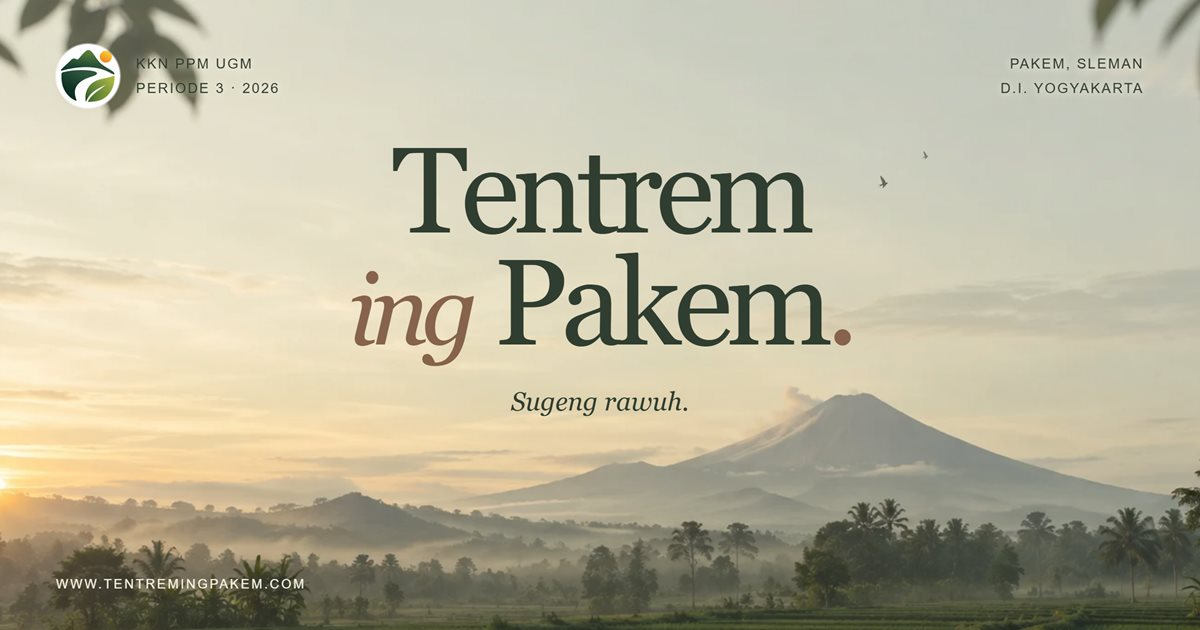
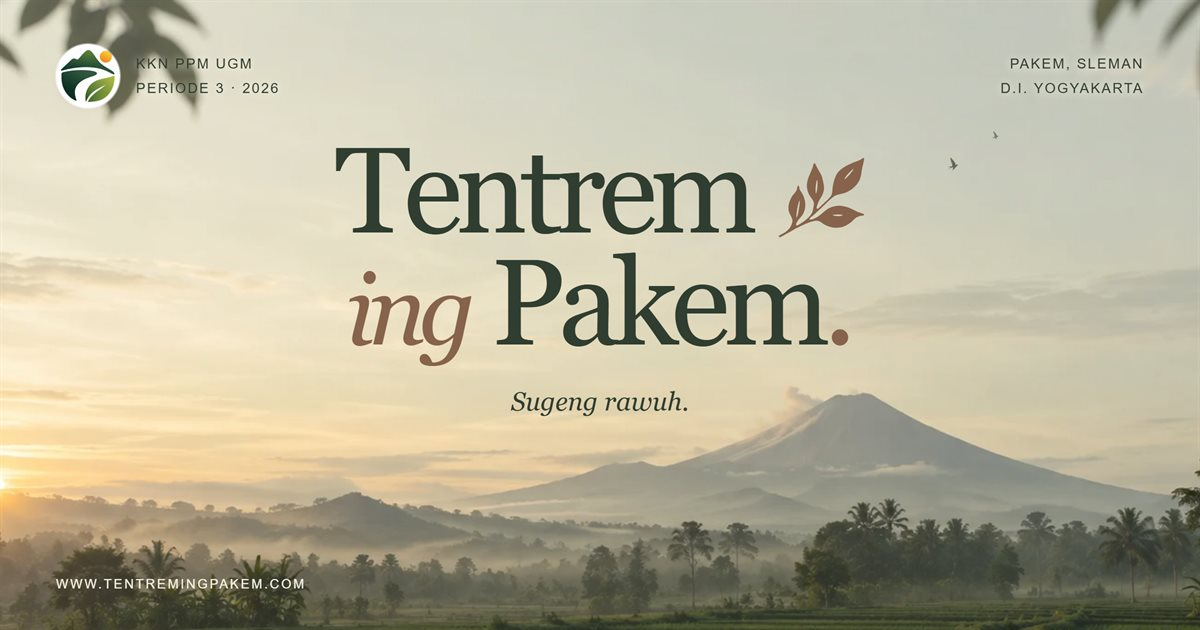
Add the official sprig to the title and a countdown to deployment day
The title now matches the team's official wordmark: a brown sprig, traced
from the logo as an inline SVG, sits beside "Tentrem" at the logo's own
size and position in em. It grows last in the opening animation, stem
first and then four leaves, and sways gently afterwards.

A countdown card under the greeting ticks toward 19 October 2026 in
Western Indonesia Time, with a journey line from 12 September. It turns
into a deployment-day and an arrived message once the date passes. Short
laptop screens tighten the spacing so both buttons stay above the fold.

The link preview image is re-rendered with the new title.

Changed region(s): [[0.2775, 0.2111, 0.74, 0.3921], [0.4317, 0.4222, 0.7092, 0.5429], [0.2775, 0.4524, 0.4008, 0.573]]

diff --git a/index.html b/index.html
@@ -13,17 +13,17 @@
   <meta property="og:url" content="https://www.tentremingpakem.com/">
   <meta property="og:site_name" content="Tentrem ing Pakem">
   <meta property="og:locale" content="id_ID">
-  <meta property="og:image" content="https://www.tentremingpakem.com/assets/og-image.jpg?v=20260929">
+  <meta property="og:image" content="https://www.tentremingpakem.com/assets/og-image.jpg?v=20261006">
   <meta property="og:image:type" content="image/jpeg">
   <meta property="og:image:width" content="1200">
   <meta property="og:image:height" content="630">
-  <meta property="og:image:alt" content="Tulisan Tentrem ing Pakem di atas ilustrasi lanskap fajar dengan gunung dan pepohonan.">
+  <meta property="og:image:alt" content="Tulisan Tentrem ing Pakem dengan setangkai daun cokelat, di atas ilustrasi lanskap fajar dengan gunung dan pepohonan.">
   <meta name="twitter:card" content="summary_large_image">
   <link rel="icon" type="image/png" sizes="64x64" href="favicon-round.png?v=20260919-gradient">
   <link rel="icon" type="image/svg+xml" href="favicon-round.svg?v=20260919-gradient">
   <link rel="apple-touch-icon" sizes="180x180" href="apple-touch-icon.png?v=20260919-gradient">
   <link rel="preload" as="image" href="assets/pakem.webp">
-  <link rel="stylesheet" href="style.css?v=20260929-journal">
+  <link rel="stylesheet" href="style.css?v=20261006-countdown">
 </head>
 <body>
   <div class="scene" aria-hidden="true"><img src="assets/pakem.webp" alt="" width="1672" height="941" fetchpriority="high"><div class="veil"></div></div>
@@ -39,8 +39,14 @@
     </header>
     <main>
       <p class="eyebrow"><span></span> SEGERA HADIR <span></span></p>
-      <h1><span class="title-word">Tentrem</span><br><span class="title-line"><i class="title-word">ing</i> <span class="title-word">Pakem</span><span class="period">.</span></span></h1>
+      <h1><span class="title-first"><span class="title-word">Tentrem</span><svg class="title-sprig" viewBox="0 0 264 244" fill="currentColor" aria-hidden="true" focusable="false"><defs><path id="sprig-shape" d="M260.8 2C262.3 6.5 256 27.4 254.8 34C253.3 42.6 251.5 57.7 248.4 65.3C241.8 81.6 227.5 96 211.6 103.3C208.1 105 204.3 106.7 200.6 108C190.9 111.2 180 111.8 171 116.9C162.9 121.5 138.8 145.4 131.1 153.2C127.6 156.7 123.6 159.8 119.9 163.1C114.7 167.7 109.7 172.6 104.4 177.3C101.3 180 95.8 183 95.8 187.4C99.9 189.8 105.7 186.4 109.8 184.8C125.6 178.4 133.9 167.7 147 158.2C152.9 154 160 150.9 166.8 148.9C192.6 141.1 215.7 151.1 238.1 163.2C242.8 165.7 258.5 170.1 260.4 171.8C261.8 173 260.5 172 261.3 173.5C259.4 176.7 255 175.9 251.5 176.7C246.2 177.9 240.4 180 235.9 183C229.9 187 226.1 192.8 220.4 197.1C205.3 208.6 187.4 215.3 168.3 212.4C158.9 211 149.1 208 140.9 203.3C129.1 196.6 126.7 190 110 192.3C94.2 194.6 63.1 210.2 48.5 218.1C42 221.6 35.9 225.7 29.4 229.1C25.6 231 8.9 240.9 6.6 241.4C4.5 241.8 3.6 241.2 2.2 239.9C2.3 238.4 1.6 239.4 2.3 238C3.7 235.5 16.3 229.9 19.5 227.9C31.2 220.9 40.6 209.7 43.3 196C46 181.6 34 174.7 31.9 158.5C30.3 145.8 35.3 129.2 42.1 118.5C45.3 113.4 49.8 109.3 53.1 104.3C54.6 102.1 56.1 99.8 57 97.3C58.6 93.2 57.4 87 61.9 85.1C65.9 87.4 63.1 93.1 67.1 99.4C70.9 105.3 74.8 111.1 77.4 117.6C84.3 134.6 85 154.3 76.1 170.8C70.8 180.5 61.9 186.7 57.7 195.5C56 199.1 52.7 202.8 56 206.2C61.4 205.5 70.2 198.9 75.1 195.8C85.2 189.4 99.4 177.2 103.9 166C105.5 162 106 157.6 106.9 153.4C108.1 148.1 109.6 141.9 108.4 136.6C106.6 128.6 100.1 121.9 95.9 115.1C91.3 107.7 88.7 99.2 87.8 90.6C86.1 74.9 92.6 58.5 99.1 44.5C101.7 38.8 104.2 33 106 26.9C106.9 23.3 106.7 19.2 110.1 17.3C111.1 17.6 111.1 17.2 112 17.9C112.2 18.1 121.1 35.2 122.3 37.3C125.7 43.3 129.6 49.3 132.3 55.7C134 59.7 134.7 64 135.7 68.2C140.2 85.9 142 97.8 133.7 114.7C127.5 127.3 124.6 127.4 119.6 143.3C118.4 147 115.6 152 118 155.5C119.2 155.5 119.7 155.8 120.8 155C124.2 152.8 134.1 143 137.9 139.6C144.6 133.5 158.8 121.6 162.3 113.4C164.4 108.4 165 96.7 165.7 90.8C167.2 78.9 170.6 66.2 175.4 55.2C184.3 35 209.4 23.3 228.5 15.1C235.3 12.1 243.4 10.3 249.8 6.7C253.3 4.7 256.7 .7 260.8 2ZM228 35C221 39.8 203.6 57.7 201.5 65.5C201.7 65.5 201.9 66 202.1 65.9C203.4 65.8 208.5 60.5 209.7 59.4C215.1 54.1 220.3 48.2 224.6 42C225.6 40.5 228.3 37.9 228.4 36.1C228.4 35.7 228 35.4 228 35ZM115.2 109.4C119.1 103.4 121.2 75.2 118.8 68.3C118.6 68.5 118.2 68.2 118 68.4C117.1 69.2 116.3 75.6 116 77.1C114.5 83.8 112.5 103.7 115.2 109.4ZM65 129.9C60.4 140.6 54.7 171.5 56 182.9C60.7 177.5 64 151.4 65 143.3C65.5 139.2 66.7 133.8 65 129.9ZM166.3 175.3C171.7 177.8 192.7 178.9 196.8 174.8C189.8 172.1 181.3 172.5 174 173.2C172 173.4 167.7 173.2 166.2 174.8C166.1 174.9 166.4 175.2 166.3 175.3Z"/><clipPath id="sprig-stem-area"><path d="M0 0V244H264V0ZM12 72L74 72L78 102L92 132L92 162L88 172L80 182L70 192L65 197L59.5 202L57 204.5L12 204.5ZM74 2L150 2L151 97L148 114L140 127L128 142L120.5 153.5L98 153.5L92 142L92 132L78 102L74 72ZM152 -8L277 -8L277 134L168 134L167.9 129.5L152.3 115.5L153.3 92ZM101 184L107 180.5L110 178.5L122 170L132 162L142 152.5L152 144L162 137L168 134L277 134L277 250L101 250Z"/></clipPath><clipPath id="sprig-leaf-1-area"><path d="M12 72L74 72L78 102L92 132L92 162L88 172L80 182L70 192L65 197L59.5 202L57 206L12 206Z"/></clipPath><clipPath id="sprig-leaf-2-area"><path d="M74 2L150 2L151 97L148 114L140 127L128 142L120.5 155L98 155L92 142L92 132L78 102L74 72Z"/></clipPath><clipPath id="sprig-leaf-3-area"><path d="M152 -8L277 -8L277 134L168 134L166.9 130.6L151.3 116.6L153.3 92Z"/></clipPath><clipPath id="sprig-leaf-4-area"><path d="M99.5 184L107 180.5L110 178.5L122 170L132 162L142 152.5L152 144L162 137L168 134L277 134L277 250L99.5 250Z"/></clipPath></defs><use class="sprig-stem" href="#sprig-shape" clip-path="url(#sprig-stem-area)"/><use class="sprig-leaf sprig-leaf-1" href="#sprig-shape" clip-path="url(#sprig-leaf-1-area)"/><use class="sprig-leaf sprig-leaf-4" href="#sprig-shape" clip-path="url(#sprig-leaf-4-area)"/><use class="sprig-leaf sprig-leaf-2" href="#sprig-shape" clip-path="url(#sprig-leaf-2-area)"/><use class="sprig-leaf sprig-leaf-3" href="#sprig-shape" clip-path="url(#sprig-leaf-3-area)"/></svg></span><br><span class="title-line"><i class="title-word">ing</i> <span class="title-word">Pakem</span><span class="period">.</span></span></h1>
       <p class="description"><i>Sugeng rawuh.</i></p>
+      <div class="countdown" data-start="2026-09-12T00:00:00+07:00" data-target="2026-10-19T00:00:00+07:00">
+        <p class="countdown-title"><span class="countdown-live" aria-hidden="true"></span><span class="countdown-heading" data-today="Hari penerjunan" data-arrived="Sudah di Pakem">Menuju penerjunan</span><span class="countdown-date"> · <time datetime="2026-10-19">Senin, 19 Oktober 2026</time></span></p>
+        <p class="countdown-units" role="timer" aria-atomic="true"><span class="countdown-unit"><span class="countdown-value"><span>--</span></span> <span class="countdown-label">hari</span></span> <span class="countdown-unit"><span class="countdown-value"><span>--</span></span> <span class="countdown-label">jam</span></span> <span class="countdown-unit"><span class="countdown-value"><span>--</span></span> <span class="countdown-label">menit</span></span> <span class="countdown-unit"><span class="countdown-value"><span>--</span></span> <span class="countdown-label">detik</span></span></p>
+        <p class="countdown-message" data-today="Hari ini, kami tiba di Pakem." data-arrived="Sejak 19 Oktober, cerita kami berlanjut di Pakem." hidden></p>
+        <div class="countdown-journey" aria-hidden="true"><span>12 Sep</span><span class="countdown-track"><span class="countdown-fill"></span><img class="countdown-bird" src="assets/bird.png" alt="" width="130" height="150"></span><span>19 Okt</span></div>
+      </div>
       <div class="actions">
         <button class="discover" type="button" aria-haspopup="dialog" aria-controls="pakem-story">
           <span class="button-flower" aria-hidden="true"><svg class="icon icon-flower" viewBox="0 0 24 24" fill="none" stroke="currentColor" stroke-width="1.6" stroke-linecap="round" stroke-linejoin="round" aria-hidden="true" focusable="false"><path d="M12 3v18M3 12h18M5.64 5.64l12.72 12.72M5.64 18.36L18.36 5.64"/></svg></span>
@@ -161,6 +167,6 @@
     </div>
   </dialog>
   <template id="spark-icon"><svg class="icon icon-spark" viewBox="0 0 24 24" fill="currentColor" aria-hidden="true" focusable="false"><path d="M12 1c1.4 7.2 3.8 9.6 11 11-7.2 1.4-9.6 3.8-11 11C10.6 15.8 8.2 13.4 1 12 8.2 10.6 10.6 8.2 12 1Z"/></svg></template>
-  <script src="script.js?v=20260929-journal" defer></script>
+  <script src="script.js?v=20261006-countdown" defer></script>
 </body>
 </html>

diff --git a/style.css b/style.css
@@ -131,7 +131,7 @@ body.motion-paused .journal-next-page img{animation-play-state:paused}
 body.motion-paused .photo-dialog *{animation:none}
 @media(max-width:760px){.photo-full{border-width:5px;border-bottom-width:12px;max-height:calc(100svh - 190px)}.photo-dialog .close-dialog{top:12px;right:12px}}
 
-/* Every visit opens like morning in Pakem: the mist lifts, the words arrive, and the dot lands last. */
+/* Every visit opens like morning in Pakem: the mist lifts, the words arrive, the dot lands, and the sprig grows last. */
 .scene::after{content:"";position:absolute;inset:0;background:#eeeade;opacity:0;pointer-events:none;animation:mist-lift 1.6s .05s cubic-bezier(.4,0,.2,1) backwards}
 header{animation:intro-down .9s .15s var(--ease) backwards}
 .eyebrow{animation:eyebrow-in 1.1s .3s var(--ease) backwards}
@@ -155,3 +155,42 @@ footer,.motion-toggle{animation:intro-fade 1s 1.5s ease-out backwards}
 @keyframes word-in{from{opacity:0;transform:translateY(.3em);filter:blur(12px)}}
 @keyframes ing-in{from{opacity:0;transform:translateX(-.3em) rotate(-8deg);filter:blur(12px)}}
 @keyframes dot-land{0%{opacity:0;transform:translateY(-1.1em) scale(.5)}55%{opacity:1;transform:translateY(.06em) scale(1.2,.85)}80%{transform:translateY(-.04em) scale(.95,1.05)}}
+
+/* The official wordmark carries a brown sprig beside Tentrem. Its size and place are the logo's own, in em. */
+h1 .title-line{margin-right:.043em}
+.title-sprig{display:inline-block;width:.714em;height:.66em;margin-left:.223em;vertical-align:-.0435em;overflow:visible;color:var(--accent);transform-origin:1.9% 97.5%;animation:sprig-sway 7s 3.1s ease-in-out infinite}
+.sprig-stem{transform-origin:5px 238px;animation:sprig-grow .75s 1.65s var(--ease) backwards}
+.sprig-leaf{animation:leaf-unfurl .8s cubic-bezier(.34,1.56,.64,1) backwards}
+.sprig-leaf-1{transform-origin:47.4px 204.5px;--fold:50deg;animation-delay:1.85s}
+.sprig-leaf-4{transform-origin:101px 191.4px;--fold:-45deg;animation-delay:1.98s}
+.sprig-leaf-2{transform-origin:111.4px 153.5px;--fold:40deg;animation-delay:2.08s}
+.sprig-leaf-3{transform-origin:159.6px 122px;--fold:-20deg;animation-delay:2.2s}
+@keyframes sprig-grow{from{transform:scale(0)}}
+@keyframes leaf-unfurl{from{transform:rotate(var(--fold)) scale(0)}}
+@keyframes sprig-sway{50%{transform:rotate(-2.5deg)}}
+body.motion-paused .title-sprig{animation-play-state:paused}
+
+/* A live countdown to deployment day, with the journey since the first meeting drawn underneath. */
+.countdown{width:min(100%,392px);margin:0 auto 24px;padding:14px 20px 10px;border:1px solid #fffaf1bd;border-radius:20px;background:#f6f1e4e6;-webkit-backdrop-filter:blur(10px);backdrop-filter:blur(10px);box-shadow:0 1px 0 #d4d8c5,0 10px 30px #14291216;animation:intro-up .9s 1.32s var(--ease) backwards}
+.countdown-title{margin:0 0 10px;font-size:9px;line-height:1.4;letter-spacing:1.8px;text-transform:uppercase;color:#6c775d}
+.countdown-live{position:relative;display:inline-block;width:6px;height:6px;margin:0 9px 1px 0;vertical-align:middle;border-radius:50%;background:var(--accent)}
+.countdown-live::after{content:"";position:absolute;inset:-4px;border:1px solid var(--accent);border-radius:50%;opacity:0;animation:live-ring 2.4s ease-out infinite}
+.countdown-units{display:grid;grid-template-columns:repeat(4,1fr);margin:0}
+.countdown-unit{display:flex;flex-direction:column;align-items:center;gap:2px}
+.countdown-unit+.countdown-unit{border-left:1px solid var(--line)}
+.countdown-value{display:block;height:1.15em;overflow:hidden;font:400 34px/1.15 Georgia,'Times New Roman',serif;letter-spacing:-.5px;color:var(--ink)}
+.countdown-value>span{display:block}
+.countdown-label{font-size:8px;letter-spacing:1.6px;text-transform:uppercase;color:#8b937d}
+.countdown-message{margin:0 0 2px;font:italic 20px/1.35 Georgia,'Times New Roman',serif;color:var(--ink)}
+.countdown-journey{display:flex;align-items:center;gap:10px;margin-top:9px;font-size:8px;letter-spacing:1.4px;text-transform:uppercase;color:#8b937d;white-space:nowrap}
+.countdown-track{position:relative;flex:1;height:20px}
+.countdown-track::before{content:"";position:absolute;left:0;right:0;top:50%;border-top:1px dashed #bcc5ab}
+.countdown-track::after{content:"";position:absolute;right:-4px;top:50%;width:7px;height:7px;margin-top:-4px;border:1.5px solid var(--accent);border-radius:50%;background:var(--paper)}
+.countdown-fill{position:absolute;left:0;top:50%;width:var(--progress,0%);height:2px;margin-top:-1px;border-radius:2px;background:var(--accent)}
+.countdown-bird{position:absolute;left:var(--progress,0%);top:50%;width:17px;height:auto;margin:-14px 0 0 -9px;animation:wing 1.15s ease-in-out infinite}
+@keyframes live-ring{from{opacity:.8;transform:scale(.5)}to{opacity:0;transform:scale(1.5)}}
+body.motion-paused .countdown-bird,body.motion-paused .countdown-live::after{animation-play-state:paused}
+@media(max-width:760px){.countdown{width:min(100%,340px);margin-bottom:22px;padding:13px 14px 9px;border-radius:18px}.countdown-title{letter-spacing:1.3px}.countdown-value{font-size:29px}.countdown-message{font-size:18px}}
+@media(max-width:420px){.countdown-date{display:none}}
+/* Short laptop screens tighten the spacing so both buttons stay above the fold. */
+@media(min-width:761px) and (max-height:780px){main{padding-top:2vh}.eyebrow{margin-bottom:14px}.description{margin:14px 0 16px}.countdown{margin-bottom:16px;padding-top:11px;padding-bottom:8px}.countdown-title{margin-bottom:7px}.countdown-value{font-size:30px}.countdown-journey{margin-top:6px}}

diff --git a/script.js b/script.js
@@ -333,3 +333,72 @@ reducedMotion.addEventListener('change', () => { if (!motionAllowed()) { panelAn
   });
   view.addEventListener('pointercancel', () => { swipe = undefined; });
 })();
+
+// Counts down to deployment day. Both dates carry the +07:00 offset, so every visitor sees Western Indonesia Time.
+(() => {
+  const countdown = document.querySelector('.countdown');
+  const start = Date.parse(countdown.dataset.start);
+  const target = Date.parse(countdown.dataset.target);
+  const day = 864e5;
+  const digits = [...countdown.querySelectorAll('.countdown-value > span')];
+  const units = countdown.querySelector('.countdown-units');
+  const heading = countdown.querySelector('.countdown-heading');
+  const message = countdown.querySelector('.countdown-message');
+  let timer;
+  let state;
+  let countingUp = false;
+
+  const roll = (digit, text, animate) => {
+    if (digit.textContent === text) return;
+    digit.textContent = text;
+    if (!animate || !motionAllowed() || document.hidden) return;
+    digit.animate([{ transform: 'translateY(-75%)', opacity: 0 }, { transform: 'none', opacity: 1 }], { duration: 450, easing: 'cubic-bezier(.22,1,.36,1)' });
+  };
+  // `share` scales the numbers and the journey line together, so the opening can count up from zero.
+  const render = (share = 1) => {
+    const now = Date.now();
+    const left = Math.max(0, target - now);
+    const travelled = Math.min(1, Math.max(0, (now - start) / (target - start)));
+    countdown.style.setProperty('--progress', `${(travelled * share * 100).toFixed(2)}%`);
+    const current = now < target ? 'counting' : now < target + day ? 'today' : 'arrived';
+    if (current !== state) {
+      state = current;
+      units.hidden = state !== 'counting';
+      message.hidden = state === 'counting';
+      if (state !== 'counting') {
+        heading.textContent = heading.dataset[state];
+        message.textContent = message.dataset[state];
+      }
+    }
+    [left / day, left / 36e5 % 24, left / 6e4 % 60, left / 1e3 % 60].forEach((value, i) => {
+      roll(digits[i], pad(Math.floor(Math.floor(value) * share)), share === 1);
+    });
+    return left;
+  };
+  const tick = () => {
+    countingUp = false;
+    clearTimeout(timer);
+    const left = render();
+    // Waking just after the next whole second keeps the seconds from skipping; after the day, once a minute is enough.
+    timer = setTimeout(tick, left ? left % 1000 + 30 : 6e4);
+  };
+  // The numbers count up while the card rises in with the rest of the opening.
+  if (motionAllowed() && !document.hidden) {
+    countingUp = true;
+    const begin = performance.now() + 1350;
+    const frame = time => {
+      if (!countingUp) return;
+      const t = Math.min(1, Math.max(0, (time - begin) / 1100));
+      if (t === 1) return tick();
+      render(1 - (1 - t) ** 3);
+      requestAnimationFrame(frame);
+    };
+    requestAnimationFrame(frame);
+    // If the browser pauses frames, this still lands the real numbers on time.
+    timer = setTimeout(tick, 2600);
+  } else {
+    tick();
+  }
+  // Background tabs throttle timers, so a returning visitor gets the exact time at once.
+  document.addEventListener('visibilitychange', () => { if (!document.hidden) tick(); });
+})();

diff --git a/README.md b/README.md
@@ -14,7 +14,9 @@ Domain dan pengaturan DNS tidak perlu diubah. Vercel otomatis memasangkan deploy
 - Burung bergerak dan parallax halus pada perangkat dengan mouse.
 - Tombol jeda animasi dan dukungan prefers-reduced-motion.
 - Kartu pos Kenalan dengan Pakem kini berisi jurnal KKN: Bakti Kampus dan pertemuan pertama pada 12 September 2026, pertemuan kedua pada 14 September 2026, audiensi di Kapanewon Pakem serta penandatanganan surat kesediaan lokasi di Kalurahan Candibinangun dan Purwobinangun pada 29 September 2026, serta halaman cerita berikutnya yang belum tersedia. Semua foto dokumentasi disediakan oleh tim. Pergantian halaman, teks penghubung, tombol kembali dan lanjut, serta navigasi tanggal menyambungkan perjalanan. Mendukung keyboard, Escape, atau klik di luar panel.
-- Animasi pembuka setiap kali halaman dibuka: kabut pagi terangkat dari lanskap, kata Tentrem, ing, dan Pakem muncul bergantian dari samar menjadi tajam, lalu titik cokelat mendarat paling akhir. Durasinya sekitar dua detik dan tidak berjalan bila perangkat meminta gerakan dikurangi.
+- Judul memakai tipografi resmi KKN (6 Oktober 2026): Tentrem ing Pakem dengan setangkai daun cokelat di kanan Tentrem. Daunnya SVG hasil penelusuran logo resmi, jadi tetap tajam di semua ukuran. Ukuran dan posisinya dalam satuan em, sehingga seluruh judul identik dengan logo pada layar apa pun.
+- Animasi pembuka setiap kali halaman dibuka: kabut pagi terangkat dari lanskap, kata Tentrem, ing, dan Pakem muncul bergantian dari samar menjadi tajam, titik cokelat mendarat, lalu daun tumbuh paling akhir. Batangnya memanjang dulu, kemudian empat helai daun membuka satu per satu. Setelah itu daun bergoyang pelan seperti tertiup angin. Durasinya sekitar tiga detik, goyangan ikut tombol jeda, dan semuanya tidak berjalan bila perangkat meminta gerakan dikurangi.
+- Kartu hitung mundur menuju penerjunan, Senin, 19 Oktober 2026. Angkanya berdetak tiap detik dan menghitung naik dari nol saat halaman dibuka. Garis di bawahnya menunjukkan perjalanan sejak 12 September dengan burung kecil di posisi hari ini. Tanggal target dan awal ada di `data-target` dan `data-start` pada `.countdown`, lengkap dengan zona +07:00, jadi pengunjung di zona waktu lain tetap melihat waktu WIB. Pada 19 Oktober kartu berganti menjadi "Hari penerjunan", lalu "Sudah di Pakem" sesudahnya; teksnya ada di atribut `data-today` dan `data-arrived`.
 - Setiap foto jurnal bisa diklik atau diketuk untuk pratinjau besar. Fotonya membesar dari posisinya di kolase, lengkap dengan tanggal dan keterangan. Panah, tombol panah keyboard, dan swipe berpindah antar foto dalam bab yang sama. Tutup lewat tombol, Escape, atau klik area gelap; fokus kembali ke foto asal.
 - Tombol ajakan dengan bunga berputar dan percikan bintang kecil; FAB ikon pause/play tanpa teks.
 - Ikon SVG tidak bergantung pada font atau emoji iOS. Logo header, favicon PNG, dan Apple Touch Icon menggunakan logo gradasi terbaru dari tim (19 September 2026).
@@ -22,7 +24,7 @@ Domain dan pengaturan DNS tidak perlu diubah. Vercel otomatis memasangkan deploy
 - Favicon bulat tersedia sebagai SVG dan PNG dengan sudut transparan.
 - Petunjuk singkat “Ketuk logo, lihat filosofinya.” muncul setelah 2,5 detik idle bersama dua goyangan kecil pada logo, sekali per sesi tab, lalu hilang setelah 6 detik atau saat berinteraksi. Tidak muncul ketika dialog terbuka, tab disembunyikan, atau logo sudah diklik. Goyangan mengikuti tombol jeda dan prefers-reduced-motion.
 - Tautan Instagram @tentremingpakem.
-- Gambar pratinjau tautan `assets/og-image.jpg` (1200×630, JPEG) untuk WhatsApp dan media sosial. Isinya hero situs yang dirender ulang: latar, logo, dan judul. Tulisan Segera Hadir sengaja tidak dimasukkan, jadi gambarnya tetap berlaku setelah situs resmi dibuka. Bila gambarnya diganti, naikkan juga nilai `?v=` pada `og:image` di index.html.
+- Gambar pratinjau tautan `assets/og-image.jpg` (1200×630, JPEG) untuk WhatsApp dan media sosial. Isinya hero situs yang dirender ulang: latar, logo, dan judul resmi berdaun. Tulisan Segera Hadir sengaja tidak dimasukkan, jadi gambarnya tetap berlaku setelah situs resmi dibuka. Bila gambarnya diganti, naikkan juga nilai `?v=` pada `og:image` di index.html.
 - Tidak menggunakan analytics, cookies, formulir atau layanan berbayar.
 
 ## Menambah bab jurnal
